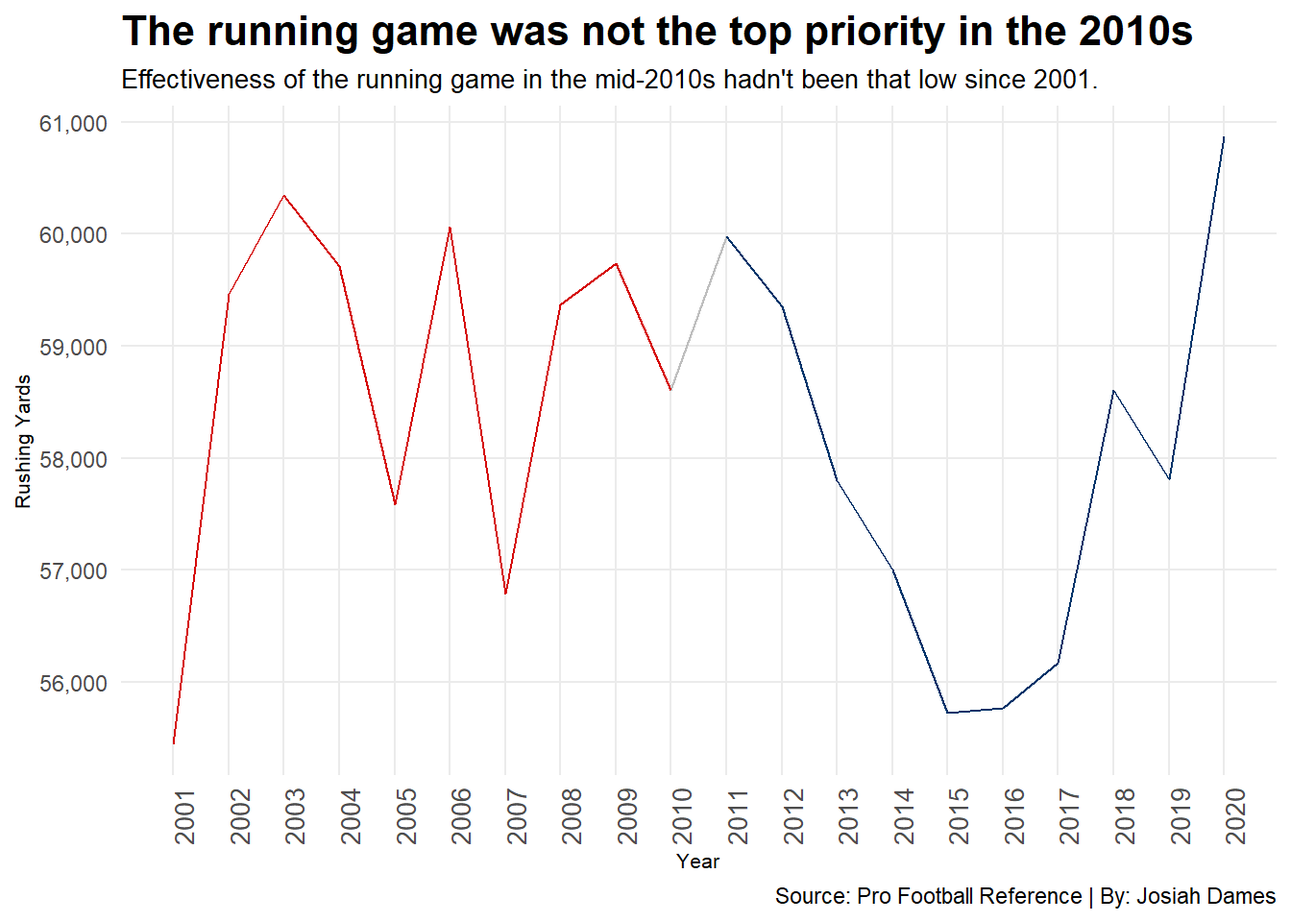
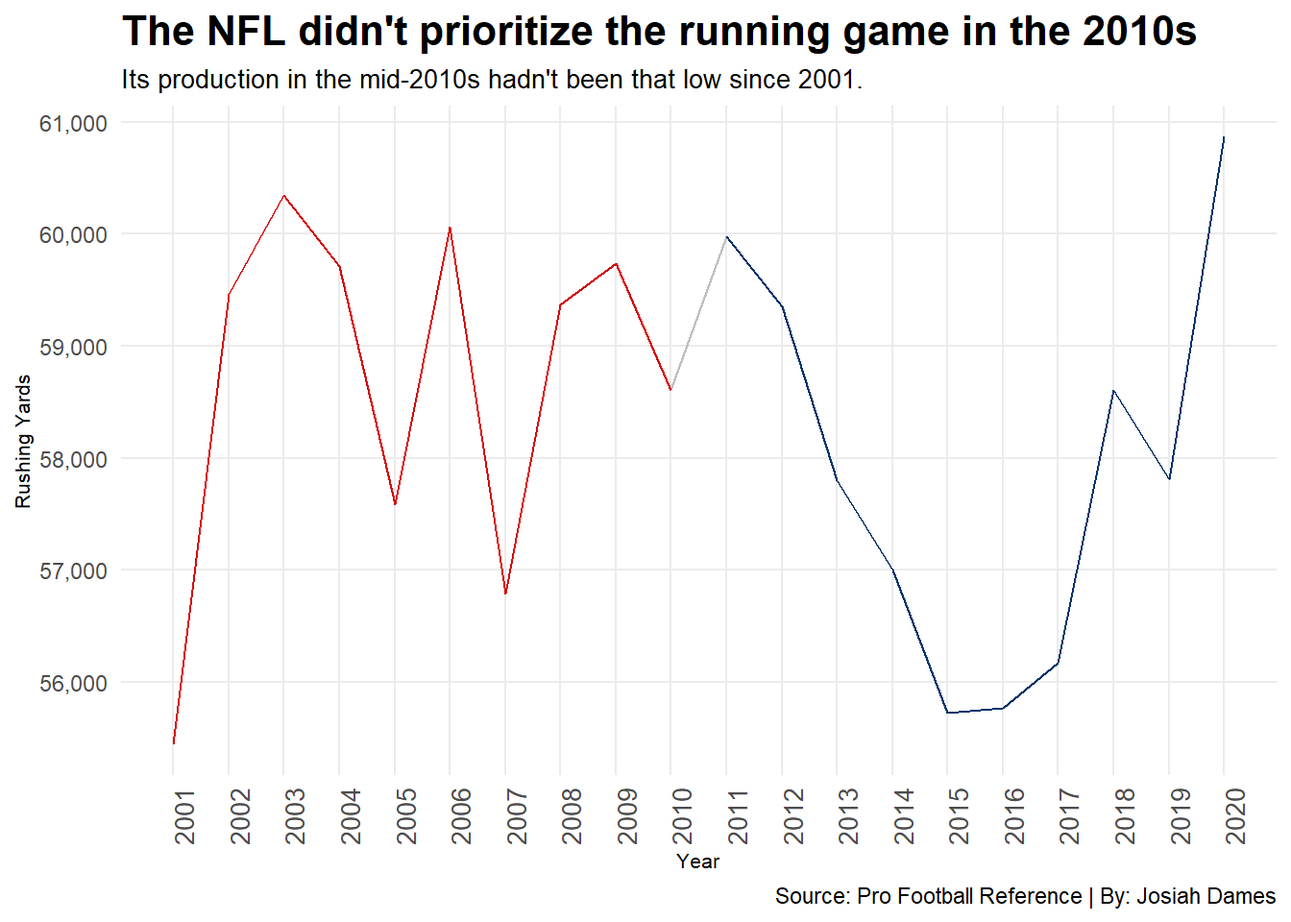
Initial Commit

Changed region(s): [[0.0938, 0.0, 0.9375, 0.0938]]

diff --git a/posts/nfl-passing-or-rushing-league/index.html b/posts/nfl-passing-or-rushing-league/index.html
@@ -191,7 +191,7 @@ pre > code.sourceCode > span > a:first-child::before { text-decoration: underlin
 <p>When you think of the modern NFL, what players do you think of? Most of the time, people think of elite quarterbacks, wide receivers or running backs- names like Patrick Mahomes, Justin Jefferson and Derrick Henry.</p>
 <p>However, there was a controversy brewing recently in the NFL: running backs’ earnings weren’t keeping up with their teammates. Players like Johnathan Taylor and Josh Jacobs had contract issues throughout 2023. Even kickers were out earning running backs.</p>
 <p>This begs the question: Is the position of running back dying because the NFL is too focused on the passing game? Let’s look at the last two decades, 2001-2010 and 2011-2020. With the exception of the 2001 season, each season had 32 teams playing in a 16-game regular season.</p>
-<p>The <a href="https://www.pro-football-reference.com/years/NFL/rushing.htm">Pro Football Reference</a> statistics show the NFL’s history of offense, both on the ground and in the air.</p>
+<p>The <a href="https://www.pro-football-reference.com/years/NFL/rushing.htm">Pro Football Reference’s</a> “Rushing &amp; Receiving League Totals” statistics show the NFL’s history of offense, both on the ground and in the air.</p>
 <p>First, we will answer the question: Is the passing game giving the running game a chance to flourish in the NFL?</p>
 <p>We will divide each year’s receiving yards by rushing yards to create a factor called “Net Yards.” This indicates that for every one rushing yard, there is a specific number of receiving yards. The bigger the “Net Yards,” the bigger the difference between receiving and rushing yards.</p>
 <div class="cell">
@@ -208,7 +208,7 @@ pre > code.sourceCode > span > a:first-child::before { text-decoration: underlin
 <div class="cell">
 <details class="code-fold">
 <summary>Code</summary>
-<div class="sourceCode cell-code" id="cb2"><pre class="sourceCode r code-with-copy"><code class="sourceCode r"><span id="cb2-1"><a href="#cb2-1" aria-hidden="true" tabindex="-1"></a>nfl <span class="ot">&lt;-</span> passing_rushing_totals_sports_reference <span class="sc">|&gt;</span> </span>
+<div class="sourceCode cell-code" id="cb2"><pre class="sourceCode r code-with-copy"><code class="sourceCode r"><span id="cb2-1"><a href="#cb2-1" aria-hidden="true" tabindex="-1"></a>nflyards <span class="ot">&lt;-</span> passing_rushing_totals_sports_reference <span class="sc">|&gt;</span> </span>
 <span id="cb2-2"><a href="#cb2-2" aria-hidden="true" tabindex="-1"></a>  <span class="fu">filter</span>(Year <span class="sc">&gt;=</span> <span class="dv">2001</span> <span class="sc">&amp;</span> Year <span class="sc">&lt;=</span><span class="dv">2020</span>) <span class="sc">|&gt;</span></span>
 <span id="cb2-3"><a href="#cb2-3" aria-hidden="true" tabindex="-1"></a>  <span class="fu">mutate</span>(</span>
 <span id="cb2-4"><a href="#cb2-4" aria-hidden="true" tabindex="-1"></a>    <span class="at">NetYards =</span> ReceivingYards<span class="sc">/</span>RushingYards</span>
@@ -216,12 +216,12 @@ pre > code.sourceCode > span > a:first-child::before { text-decoration: underlin
 <span id="cb2-6"><a href="#cb2-6" aria-hidden="true" tabindex="-1"></a></span>
 <span id="cb2-7"><a href="#cb2-7" aria-hidden="true" tabindex="-1"></a><span class="fu">ggplot</span>() <span class="sc">+</span> </span>
 <span id="cb2-8"><a href="#cb2-8" aria-hidden="true" tabindex="-1"></a>  <span class="fu">geom_point</span>(</span>
-<span id="cb2-9"><a href="#cb2-9" aria-hidden="true" tabindex="-1"></a>    <span class="at">data=</span>nfl, </span>
+<span id="cb2-9"><a href="#cb2-9" aria-hidden="true" tabindex="-1"></a>    <span class="at">data=</span>nflyards, </span>
 <span id="cb2-10"><a href="#cb2-10" aria-hidden="true" tabindex="-1"></a>    <span class="fu">aes</span>(<span class="at">x=</span>RushingYards, <span class="at">y=</span>ReceivingYards, <span class="at">size=</span>NetYards),</span>
 <span id="cb2-11"><a href="#cb2-11" aria-hidden="true" tabindex="-1"></a>    <span class="at">alpha =</span> <span class="fl">0.3</span>) <span class="sc">+</span></span>
 <span id="cb2-12"><a href="#cb2-12" aria-hidden="true" tabindex="-1"></a>  <span class="fu">scale_size</span>(<span class="at">range =</span> <span class="fu">c</span>(<span class="dv">2</span>,<span class="dv">8</span>), <span class="at">name =</span> <span class="st">"Net Yards"</span>) <span class="sc">+</span></span>
 <span id="cb2-13"><a href="#cb2-13" aria-hidden="true" tabindex="-1"></a><span class="fu">geom_point</span>(</span>
-<span id="cb2-14"><a href="#cb2-14" aria-hidden="true" tabindex="-1"></a>    <span class="at">data =</span> nfl, </span>
+<span id="cb2-14"><a href="#cb2-14" aria-hidden="true" tabindex="-1"></a>    <span class="at">data =</span> nflyards, </span>
 <span id="cb2-15"><a href="#cb2-15" aria-hidden="true" tabindex="-1"></a>    <span class="fu">aes</span>(</span>
 <span id="cb2-16"><a href="#cb2-16" aria-hidden="true" tabindex="-1"></a>      <span class="at">x =</span> RushingYards, </span>
 <span id="cb2-17"><a href="#cb2-17" aria-hidden="true" tabindex="-1"></a>      <span class="at">y =</span> ReceivingYards, </span>
@@ -229,7 +229,7 @@ pre > code.sourceCode > span > a:first-child::before { text-decoration: underlin
 <span id="cb2-19"><a href="#cb2-19" aria-hidden="true" tabindex="-1"></a>    <span class="at">alpha =</span> .<span class="dv">3</span>,</span>
 <span id="cb2-20"><a href="#cb2-20" aria-hidden="true" tabindex="-1"></a>    <span class="at">color =</span> <span class="st">"black"</span>) <span class="sc">+</span></span>
 <span id="cb2-21"><a href="#cb2-21" aria-hidden="true" tabindex="-1"></a><span class="fu">geom_text_repel</span>(</span>
-<span id="cb2-22"><a href="#cb2-22" aria-hidden="true" tabindex="-1"></a>    <span class="at">data=</span>nfl, </span>
+<span id="cb2-22"><a href="#cb2-22" aria-hidden="true" tabindex="-1"></a>    <span class="at">data=</span>nflyards, </span>
 <span id="cb2-23"><a href="#cb2-23" aria-hidden="true" tabindex="-1"></a>    <span class="fu">aes</span>(<span class="at">x=</span>RushingYards, <span class="at">y=</span>ReceivingYards, <span class="at">label=</span>Year)) <span class="sc">+</span></span>
 <span id="cb2-24"><a href="#cb2-24" aria-hidden="true" tabindex="-1"></a><span class="fu">geom_vline</span>(<span class="at">xintercept =</span> <span class="fl">58189.71</span>) <span class="sc">+</span></span>
 <span id="cb2-25"><a href="#cb2-25" aria-hidden="true" tabindex="-1"></a><span class="fu">geom_hline</span>(<span class="at">yintercept =</span> <span class="fl">121042.3</span>) <span class="sc">+</span></span>
@@ -244,33 +244,35 @@ pre > code.sourceCode > span > a:first-child::before { text-decoration: underlin
 <span id="cb2-34"><a href="#cb2-34" aria-hidden="true" tabindex="-1"></a>    <span class="fu">aes</span>(<span class="at">x =</span> <span class="dv">60250</span>, <span class="at">y =</span> <span class="dv">122000</span>),</span>
 <span id="cb2-35"><a href="#cb2-35" aria-hidden="true" tabindex="-1"></a>    <span class="at">label =</span> <span class="st">"A Season's Rushing Yards"</span>,</span>
 <span id="cb2-36"><a href="#cb2-36" aria-hidden="true" tabindex="-1"></a>    <span class="at">size =</span> <span class="dv">3</span>,</span>
-<span id="cb2-37"><a href="#cb2-37" aria-hidden="true" tabindex="-1"></a>    <span class="at">color =</span> <span class="st">"dark grey"</span></span>
+<span id="cb2-37"><a href="#cb2-37" aria-hidden="true" tabindex="-1"></a>    <span class="at">color =</span> <span class="st">"#d50a0a"</span></span>
 <span id="cb2-38"><a href="#cb2-38" aria-hidden="true" tabindex="-1"></a>  ) <span class="sc">+</span></span>
 <span id="cb2-39"><a href="#cb2-39" aria-hidden="true" tabindex="-1"></a>  <span class="fu">geom_text</span>(</span>
 <span id="cb2-40"><a href="#cb2-40" aria-hidden="true" tabindex="-1"></a>    <span class="fu">aes</span>(<span class="at">x =</span> <span class="dv">58195</span>, <span class="at">y =</span> <span class="dv">140000</span>),</span>
 <span id="cb2-41"><a href="#cb2-41" aria-hidden="true" tabindex="-1"></a>    <span class="at">label =</span> <span class="st">"A Season's Passing Yards"</span>,</span>
 <span id="cb2-42"><a href="#cb2-42" aria-hidden="true" tabindex="-1"></a>    <span class="at">size =</span> <span class="dv">3</span>,</span>
-<span id="cb2-43"><a href="#cb2-43" aria-hidden="true" tabindex="-1"></a>    <span class="at">color =</span> <span class="st">"dark grey"</span></span>
+<span id="cb2-43"><a href="#cb2-43" aria-hidden="true" tabindex="-1"></a>    <span class="at">color =</span> <span class="st">"#d50a0a"</span></span>
 <span id="cb2-44"><a href="#cb2-44" aria-hidden="true" tabindex="-1"></a>  ) <span class="sc">+</span></span>
 <span id="cb2-45"><a href="#cb2-45" aria-hidden="true" tabindex="-1"></a>  <span class="fu">geom_text</span>(</span>
 <span id="cb2-46"><a href="#cb2-46" aria-hidden="true" tabindex="-1"></a>    <span class="fu">aes</span>(<span class="at">x =</span> <span class="dv">57000</span>, <span class="at">y =</span> <span class="dv">135000</span>),</span>
 <span id="cb2-47"><a href="#cb2-47" aria-hidden="true" tabindex="-1"></a>    <span class="at">label =</span> <span class="st">"Huge emphasis on passing offense"</span>,</span>
-<span id="cb2-48"><a href="#cb2-48" aria-hidden="true" tabindex="-1"></a>    <span class="at">size =</span> <span class="dv">3</span></span>
-<span id="cb2-49"><a href="#cb2-49" aria-hidden="true" tabindex="-1"></a>  ) <span class="sc">+</span></span>
-<span id="cb2-50"><a href="#cb2-50" aria-hidden="true" tabindex="-1"></a>  <span class="fu">geom_text</span>(</span>
-<span id="cb2-51"><a href="#cb2-51" aria-hidden="true" tabindex="-1"></a>    <span class="fu">aes</span>(<span class="at">x =</span> <span class="dv">59500</span>, <span class="at">y =</span> <span class="dv">103000</span>),</span>
-<span id="cb2-52"><a href="#cb2-52" aria-hidden="true" tabindex="-1"></a>    <span class="at">label =</span> <span class="st">"Huge emphasis on rushing offense"</span>,</span>
-<span id="cb2-53"><a href="#cb2-53" aria-hidden="true" tabindex="-1"></a>    <span class="at">size =</span> <span class="dv">3</span></span>
-<span id="cb2-54"><a href="#cb2-54" aria-hidden="true" tabindex="-1"></a>  ) <span class="sc">+</span></span>
-<span id="cb2-55"><a href="#cb2-55" aria-hidden="true" tabindex="-1"></a>  <span class="fu">scale_x_continuous</span>(<span class="at">labels =</span> scales<span class="sc">::</span>comma) <span class="sc">+</span></span>
-<span id="cb2-56"><a href="#cb2-56" aria-hidden="true" tabindex="-1"></a>  <span class="fu">scale_y_continuous</span>(<span class="at">labels =</span> scales<span class="sc">::</span>comma) <span class="sc">+</span></span>
-<span id="cb2-57"><a href="#cb2-57" aria-hidden="true" tabindex="-1"></a>  <span class="fu">theme_minimal</span>() <span class="sc">+</span></span>
-<span id="cb2-58"><a href="#cb2-58" aria-hidden="true" tabindex="-1"></a>  <span class="fu">theme</span>(</span>
-<span id="cb2-59"><a href="#cb2-59" aria-hidden="true" tabindex="-1"></a>    <span class="at">plot.title =</span> <span class="fu">element_text</span>(<span class="at">size =</span> <span class="dv">16</span>, <span class="at">face =</span> <span class="st">"bold"</span>),</span>
-<span id="cb2-60"><a href="#cb2-60" aria-hidden="true" tabindex="-1"></a>    <span class="at">plot.subtitle =</span> <span class="fu">element_text</span>(<span class="at">size =</span> <span class="dv">10</span>),</span>
-<span id="cb2-61"><a href="#cb2-61" aria-hidden="true" tabindex="-1"></a>    <span class="at">axis.title =</span> <span class="fu">element_text</span>(<span class="at">size =</span> <span class="dv">8</span>),</span>
-<span id="cb2-62"><a href="#cb2-62" aria-hidden="true" tabindex="-1"></a>    <span class="at">panel.grid.minor =</span> <span class="fu">element_blank</span>()</span>
-<span id="cb2-63"><a href="#cb2-63" aria-hidden="true" tabindex="-1"></a>  )</span></code><button title="Copy to Clipboard" class="code-copy-button"><i class="bi"></i></button></pre></div>
+<span id="cb2-48"><a href="#cb2-48" aria-hidden="true" tabindex="-1"></a>    <span class="at">size =</span> <span class="dv">3</span>,</span>
+<span id="cb2-49"><a href="#cb2-49" aria-hidden="true" tabindex="-1"></a>    <span class="at">color =</span> <span class="st">"#013369"</span>,</span>
+<span id="cb2-50"><a href="#cb2-50" aria-hidden="true" tabindex="-1"></a>  ) <span class="sc">+</span></span>
+<span id="cb2-51"><a href="#cb2-51" aria-hidden="true" tabindex="-1"></a>  <span class="fu">geom_text</span>(</span>
+<span id="cb2-52"><a href="#cb2-52" aria-hidden="true" tabindex="-1"></a>    <span class="fu">aes</span>(<span class="at">x =</span> <span class="dv">59500</span>, <span class="at">y =</span> <span class="dv">103000</span>),</span>
+<span id="cb2-53"><a href="#cb2-53" aria-hidden="true" tabindex="-1"></a>    <span class="at">label =</span> <span class="st">"Huge emphasis on rushing offense"</span>,</span>
+<span id="cb2-54"><a href="#cb2-54" aria-hidden="true" tabindex="-1"></a>    <span class="at">size =</span> <span class="dv">3</span>, </span>
+<span id="cb2-55"><a href="#cb2-55" aria-hidden="true" tabindex="-1"></a>    <span class="at">color =</span> <span class="st">"#013369"</span></span>
+<span id="cb2-56"><a href="#cb2-56" aria-hidden="true" tabindex="-1"></a>  ) <span class="sc">+</span></span>
+<span id="cb2-57"><a href="#cb2-57" aria-hidden="true" tabindex="-1"></a>  <span class="fu">scale_x_continuous</span>(<span class="at">labels =</span> scales<span class="sc">::</span>comma) <span class="sc">+</span></span>
+<span id="cb2-58"><a href="#cb2-58" aria-hidden="true" tabindex="-1"></a>  <span class="fu">scale_y_continuous</span>(<span class="at">labels =</span> scales<span class="sc">::</span>comma) <span class="sc">+</span></span>
+<span id="cb2-59"><a href="#cb2-59" aria-hidden="true" tabindex="-1"></a>  <span class="fu">theme_minimal</span>() <span class="sc">+</span></span>
+<span id="cb2-60"><a href="#cb2-60" aria-hidden="true" tabindex="-1"></a>  <span class="fu">theme</span>(</span>
+<span id="cb2-61"><a href="#cb2-61" aria-hidden="true" tabindex="-1"></a>    <span class="at">plot.title =</span> <span class="fu">element_text</span>(<span class="at">size =</span> <span class="dv">16</span>, <span class="at">face =</span> <span class="st">"bold"</span>),</span>
+<span id="cb2-62"><a href="#cb2-62" aria-hidden="true" tabindex="-1"></a>    <span class="at">plot.subtitle =</span> <span class="fu">element_text</span>(<span class="at">size =</span> <span class="dv">10</span>),</span>
+<span id="cb2-63"><a href="#cb2-63" aria-hidden="true" tabindex="-1"></a>    <span class="at">axis.title =</span> <span class="fu">element_text</span>(<span class="at">size =</span> <span class="dv">8</span>),</span>
+<span id="cb2-64"><a href="#cb2-64" aria-hidden="true" tabindex="-1"></a>    <span class="at">panel.grid.minor =</span> <span class="fu">element_blank</span>()</span>
+<span id="cb2-65"><a href="#cb2-65" aria-hidden="true" tabindex="-1"></a>  )</span></code><button title="Copy to Clipboard" class="code-copy-button"><i class="bi"></i></button></pre></div>
 </details>
 <div class="cell-output-display">
 <div>
@@ -283,7 +285,7 @@ pre > code.sourceCode > span > a:first-child::before { text-decoration: underlin
 <div class="cell">
 <details class="code-fold">
 <summary>Code</summary>
-<div class="sourceCode cell-code" id="cb3"><pre class="sourceCode r code-with-copy"><code class="sourceCode r"><span id="cb3-1"><a href="#cb3-1" aria-hidden="true" tabindex="-1"></a>nfl <span class="sc">|&gt;</span></span>
+<div class="sourceCode cell-code" id="cb3"><pre class="sourceCode r code-with-copy"><code class="sourceCode r"><span id="cb3-1"><a href="#cb3-1" aria-hidden="true" tabindex="-1"></a>nflyards <span class="sc">|&gt;</span></span>
 <span id="cb3-2"><a href="#cb3-2" aria-hidden="true" tabindex="-1"></a>  <span class="fu">summarise</span>(</span>
 <span id="cb3-3"><a href="#cb3-3" aria-hidden="true" tabindex="-1"></a>    <span class="at">RushMean =</span> <span class="fu">mean</span>(RushingYards),</span>
 <span id="cb3-4"><a href="#cb3-4" aria-hidden="true" tabindex="-1"></a>    <span class="at">ReceiveingMean =</span> <span class="fu">mean</span>(ReceivingYards)</span>
@@ -291,28 +293,28 @@ pre > code.sourceCode > span > a:first-child::before { text-decoration: underlin
 </details>
 </div>
 <p>As we look at the two decades of football, the 2000s show that the running game was emphasized a lot more and there isn’t much difference between the yards in the air or on the ground. In the 2010s, however, the rushing yards were inconsistent.</p>
-<p>According to <a href="https://www.foxsports.com/stories/nfl/the-nfls-offense-of-the-decade/">Fox Sports</a>, the 2010s offense was solely passing. This can be proven by many teams’ offensive statistics. The top six offenses of the last decade were the 2011 New Orleans Saints, 2011 Green Bay Packers, 2013 Denver Broncos, 2016 Atlanta Falcons, 2018 Kansas City Chiefs, and 2019 Baltimore Ravens. By itself, the Falcons’ Super Bowl LI run in 2016 had quarterback Matt Ryan throwing for almost 5,000 yards and 38 touchdowns in the regular season. That Falcons’ offense had the highest grade offense in the 2010s at 94.1. That is very impressive.</p>
+<p>According to <a href="https://www.foxsports.com/stories/nfl/the-nfls-offense-of-the-decade/">Fox Sports</a>, the 2010s offense prioritized passing. This can be proven by many teams’ offensive statistics. The top six offenses of the last decade were the 2011 New Orleans Saints, 2011 Green Bay Packers, 2013 Denver Broncos, 2016 Atlanta Falcons, 2018 Kansas City Chiefs, and 2019 Baltimore Ravens. By itself, the Falcons’ Super Bowl LI run in 2016 had quarterback Matt Ryan throwing for almost 5,000 yards and 38 touchdowns in the regular season. That Falcons’ offense had the highest grade offense in the 2010s at 94.1. That is very impressive.</p>
 <p>This leads to the next question: how much did the rushing and passing game change by year? In order to see the dip in rushing and rise in passing offense, we need to see each year side by side.</p>
 <p>The 2000s will be colored Rosso Corsa and the 2010s will be colored Dark Midnight Blue.</p>
 <div class="cell">
 <details class="code-fold">
 <summary>Code</summary>
-<div class="sourceCode cell-code" id="cb4"><pre class="sourceCode r code-with-copy"><code class="sourceCode r"><span id="cb4-1"><a href="#cb4-1" aria-hidden="true" tabindex="-1"></a>decadeone <span class="ot">&lt;-</span> nfl <span class="sc">|&gt;</span></span>
+<div class="sourceCode cell-code" id="cb4"><pre class="sourceCode r code-with-copy"><code class="sourceCode r"><span id="cb4-1"><a href="#cb4-1" aria-hidden="true" tabindex="-1"></a>decadeone <span class="ot">&lt;-</span> nflyards <span class="sc">|&gt;</span></span>
 <span id="cb4-2"><a href="#cb4-2" aria-hidden="true" tabindex="-1"></a>  <span class="fu">filter</span>(Year <span class="sc">&gt;=</span> <span class="dv">2001</span> <span class="sc">&amp;</span> Year <span class="sc">&lt;=</span> <span class="dv">2010</span>)</span>
 <span id="cb4-3"><a href="#cb4-3" aria-hidden="true" tabindex="-1"></a></span>
-<span id="cb4-4"><a href="#cb4-4" aria-hidden="true" tabindex="-1"></a>decadetwo <span class="ot">&lt;-</span> nfl <span class="sc">|&gt;</span></span>
+<span id="cb4-4"><a href="#cb4-4" aria-hidden="true" tabindex="-1"></a>decadetwo <span class="ot">&lt;-</span> nflyards <span class="sc">|&gt;</span></span>
 <span id="cb4-5"><a href="#cb4-5" aria-hidden="true" tabindex="-1"></a>  <span class="fu">filter</span>(Year <span class="sc">&gt;=</span> <span class="dv">2011</span> <span class="sc">&amp;</span> Year <span class="sc">&lt;=</span> <span class="dv">2020</span>)</span>
 <span id="cb4-6"><a href="#cb4-6" aria-hidden="true" tabindex="-1"></a></span>
 <span id="cb4-7"><a href="#cb4-7" aria-hidden="true" tabindex="-1"></a><span class="fu">ggplot</span>() <span class="sc">+</span> </span>
-<span id="cb4-8"><a href="#cb4-8" aria-hidden="true" tabindex="-1"></a>  <span class="fu">geom_line</span>(<span class="at">data=</span>nfl, <span class="fu">aes</span>(<span class="at">x=</span>Year, <span class="at">y=</span>ReceivingYards), <span class="at">color=</span><span class="st">"grey"</span>) <span class="sc">+</span></span>
+<span id="cb4-8"><a href="#cb4-8" aria-hidden="true" tabindex="-1"></a>  <span class="fu">geom_line</span>(<span class="at">data=</span>nflyards, <span class="fu">aes</span>(<span class="at">x=</span>Year, <span class="at">y=</span>ReceivingYards), <span class="at">color=</span><span class="st">"grey"</span>) <span class="sc">+</span></span>
 <span id="cb4-9"><a href="#cb4-9" aria-hidden="true" tabindex="-1"></a>  <span class="fu">geom_line</span>(<span class="at">data=</span>decadeone, <span class="fu">aes</span>(<span class="at">x=</span>Year, <span class="at">y=</span>ReceivingYards), <span class="at">color=</span><span class="st">"#d50a0a"</span>) <span class="sc">+</span></span>
 <span id="cb4-10"><a href="#cb4-10" aria-hidden="true" tabindex="-1"></a>  <span class="fu">geom_line</span>(<span class="at">data=</span>decadetwo, <span class="fu">aes</span>(<span class="at">x=</span>Year, <span class="at">y=</span>ReceivingYards), <span class="at">color=</span><span class="st">"#013369"</span>) <span class="sc">+</span></span>
 <span id="cb4-11"><a href="#cb4-11" aria-hidden="true" tabindex="-1"></a>  <span class="fu">labs</span>(</span>
 <span id="cb4-12"><a href="#cb4-12" aria-hidden="true" tabindex="-1"></a>    <span class="at">y =</span> <span class="st">"Receiving Yards"</span>,</span>
 <span id="cb4-13"><a href="#cb4-13" aria-hidden="true" tabindex="-1"></a>    <span class="at">x =</span> <span class="st">"Year"</span>,</span>
 <span id="cb4-14"><a href="#cb4-14" aria-hidden="true" tabindex="-1"></a>    <span class="at">fill =</span> <span class="st">"Receiving Yards"</span>,</span>
-<span id="cb4-15"><a href="#cb4-15" aria-hidden="true" tabindex="-1"></a>    <span class="at">title =</span> <span class="st">"The passing game consistently grew in the last </span><span class="sc">\n</span><span class="st">two decades"</span>,</span>
-<span id="cb4-16"><a href="#cb4-16" aria-hidden="true" tabindex="-1"></a>    <span class="at">subtitle =</span> <span class="st">"The passing game's effectiveness dropped in 2017 but improved over the next few years."</span>,</span>
+<span id="cb4-15"><a href="#cb4-15" aria-hidden="true" tabindex="-1"></a>    <span class="at">title =</span> <span class="st">"The passing game consistently grew in the last</span><span class="sc">\n</span><span class="st">two decades"</span>,</span>
+<span id="cb4-16"><a href="#cb4-16" aria-hidden="true" tabindex="-1"></a>    <span class="at">subtitle =</span> <span class="st">"Its efficiency dropped in 2017 but improved over the next few years."</span>,</span>
 <span id="cb4-17"><a href="#cb4-17" aria-hidden="true" tabindex="-1"></a>    <span class="at">caption =</span> <span class="st">"Source: Pro Football Reference | By: Josiah Dames"</span></span>
 <span id="cb4-18"><a href="#cb4-18" aria-hidden="true" tabindex="-1"></a>  ) <span class="sc">+</span></span>
 <span id="cb4-19"><a href="#cb4-19" aria-hidden="true" tabindex="-1"></a>  <span class="fu">scale_y_continuous</span>(<span class="at">labels =</span> scales<span class="sc">::</span>comma) <span class="sc">+</span></span>
@@ -340,15 +342,15 @@ pre > code.sourceCode > span > a:first-child::before { text-decoration: underlin
 <details class="code-fold">
 <summary>Code</summary>
 <div class="sourceCode cell-code" id="cb5"><pre class="sourceCode r code-with-copy"><code class="sourceCode r"><span id="cb5-1"><a href="#cb5-1" aria-hidden="true" tabindex="-1"></a><span class="fu">ggplot</span>() <span class="sc">+</span> </span>
-<span id="cb5-2"><a href="#cb5-2" aria-hidden="true" tabindex="-1"></a>  <span class="fu">geom_line</span>(<span class="at">data=</span>nfl, <span class="fu">aes</span>(<span class="at">x=</span>Year, <span class="at">y=</span>RushingYards), <span class="at">color=</span><span class="st">"grey"</span>) <span class="sc">+</span></span>
+<span id="cb5-2"><a href="#cb5-2" aria-hidden="true" tabindex="-1"></a>  <span class="fu">geom_line</span>(<span class="at">data=</span>nflyards, <span class="fu">aes</span>(<span class="at">x=</span>Year, <span class="at">y=</span>RushingYards), <span class="at">color=</span><span class="st">"grey"</span>) <span class="sc">+</span></span>
 <span id="cb5-3"><a href="#cb5-3" aria-hidden="true" tabindex="-1"></a>  <span class="fu">geom_line</span>(<span class="at">data=</span>decadeone, <span class="fu">aes</span>(<span class="at">x=</span>Year, <span class="at">y=</span>RushingYards), <span class="at">color=</span><span class="st">"#d50a0a"</span>) <span class="sc">+</span></span>
 <span id="cb5-4"><a href="#cb5-4" aria-hidden="true" tabindex="-1"></a>  <span class="fu">geom_line</span>(<span class="at">data=</span>decadetwo, <span class="fu">aes</span>(<span class="at">x=</span>Year, <span class="at">y=</span>RushingYards), <span class="at">color=</span><span class="st">"#013369"</span>) <span class="sc">+</span></span>
 <span id="cb5-5"><a href="#cb5-5" aria-hidden="true" tabindex="-1"></a>  <span class="fu">labs</span>(</span>
 <span id="cb5-6"><a href="#cb5-6" aria-hidden="true" tabindex="-1"></a>    <span class="at">y =</span> <span class="st">"Rushing Yards"</span>,</span>
 <span id="cb5-7"><a href="#cb5-7" aria-hidden="true" tabindex="-1"></a>    <span class="at">x =</span> <span class="st">"Year"</span>,</span>
 <span id="cb5-8"><a href="#cb5-8" aria-hidden="true" tabindex="-1"></a>    <span class="at">fill =</span> <span class="st">"Rushing Yards"</span>,</span>
-<span id="cb5-9"><a href="#cb5-9" aria-hidden="true" tabindex="-1"></a>    <span class="at">title =</span> <span class="st">"The running game was not the top priority in the 2010s"</span>,</span>
-<span id="cb5-10"><a href="#cb5-10" aria-hidden="true" tabindex="-1"></a>    <span class="at">subtitle =</span> <span class="st">"Effectiveness of the running game in the mid-2010s hadn't been that low since 2001."</span>,</span>
+<span id="cb5-9"><a href="#cb5-9" aria-hidden="true" tabindex="-1"></a>    <span class="at">title =</span> <span class="st">"The NFL didn't prioritize the running game in the 2010s"</span>,</span>
+<span id="cb5-10"><a href="#cb5-10" aria-hidden="true" tabindex="-1"></a>    <span class="at">subtitle =</span> <span class="st">"Its production in the mid-2010s hadn't been that low since 2001."</span>,</span>
 <span id="cb5-11"><a href="#cb5-11" aria-hidden="true" tabindex="-1"></a>    <span class="at">caption =</span> <span class="st">"Source: Pro Football Reference | By: Josiah Dames"</span></span>
 <span id="cb5-12"><a href="#cb5-12" aria-hidden="true" tabindex="-1"></a>  ) <span class="sc">+</span></span>
 <span id="cb5-13"><a href="#cb5-13" aria-hidden="true" tabindex="-1"></a>  <span class="fu">scale_y_continuous</span>(<span class="at">labels =</span> scales<span class="sc">::</span>comma) <span class="sc">+</span></span>
@@ -377,7 +379,7 @@ pre > code.sourceCode > span > a:first-child::before { text-decoration: underlin
 <div class="cell">
 <details class="code-fold">
 <summary>Code</summary>
-<div class="sourceCode cell-code" id="cb6"><pre class="sourceCode r code-with-copy"><code class="sourceCode r"><span id="cb6-1"><a href="#cb6-1" aria-hidden="true" tabindex="-1"></a>big <span class="ot">&lt;-</span> passing_rushing_totals_sports_reference <span class="sc">|&gt;</span> </span>
+<div class="sourceCode cell-code" id="cb6"><pre class="sourceCode r code-with-copy"><code class="sourceCode r"><span id="cb6-1"><a href="#cb6-1" aria-hidden="true" tabindex="-1"></a>seasontotals <span class="ot">&lt;-</span> passing_rushing_totals_sports_reference <span class="sc">|&gt;</span> </span>
 <span id="cb6-2"><a href="#cb6-2" aria-hidden="true" tabindex="-1"></a>  <span class="fu">group_by</span>(Year) <span class="sc">|&gt;</span> </span>
 <span id="cb6-3"><a href="#cb6-3" aria-hidden="true" tabindex="-1"></a>  <span class="fu">summarise</span>(</span>
 <span id="cb6-4"><a href="#cb6-4" aria-hidden="true" tabindex="-1"></a>    <span class="at">SeasonRushingYards =</span> <span class="fu">sum</span>(RushingYards),</span>
@@ -387,7 +389,7 @@ pre > code.sourceCode > span > a:first-child::before { text-decoration: underlin
 <span id="cb6-8"><a href="#cb6-8" aria-hidden="true" tabindex="-1"></a>  ) <span class="sc">|&gt;</span> </span>
 <span id="cb6-9"><a href="#cb6-9" aria-hidden="true" tabindex="-1"></a>  <span class="fu">filter</span>(Year <span class="sc">&gt;=</span> <span class="dv">2001</span> <span class="sc">&amp;</span> Year <span class="sc">&lt;=</span><span class="dv">2020</span>)</span>
 <span id="cb6-10"><a href="#cb6-10" aria-hidden="true" tabindex="-1"></a></span>
-<span id="cb6-11"><a href="#cb6-11" aria-hidden="true" tabindex="-1"></a>biglong <span class="ot">&lt;-</span> big <span class="sc">|&gt;</span> </span>
+<span id="cb6-11"><a href="#cb6-11" aria-hidden="true" tabindex="-1"></a>seasontotalslong <span class="ot">&lt;-</span> seasontotals <span class="sc">|&gt;</span> </span>
 <span id="cb6-12"><a href="#cb6-12" aria-hidden="true" tabindex="-1"></a>  <span class="fu">select</span>(<span class="sc">-</span>TotalOffensiveYards) <span class="sc">|&gt;</span></span>
 <span id="cb6-13"><a href="#cb6-13" aria-hidden="true" tabindex="-1"></a>  <span class="fu">pivot_longer</span>(</span>
 <span id="cb6-14"><a href="#cb6-14" aria-hidden="true" tabindex="-1"></a>    <span class="at">cols =</span> <span class="fu">ends_with</span>(<span class="st">"Yards"</span>),</span>
@@ -395,7 +397,7 @@ pre > code.sourceCode > span > a:first-child::before { text-decoration: underlin
 <span id="cb6-16"><a href="#cb6-16" aria-hidden="true" tabindex="-1"></a>  )</span>
 <span id="cb6-17"><a href="#cb6-17" aria-hidden="true" tabindex="-1"></a></span>
 <span id="cb6-18"><a href="#cb6-18" aria-hidden="true" tabindex="-1"></a><span class="fu">ggplot</span>() <span class="sc">+</span> </span>
-<span id="cb6-19"><a href="#cb6-19" aria-hidden="true" tabindex="-1"></a>  <span class="fu">geom_bar</span>(<span class="at">data=</span>biglong, <span class="fu">aes</span>(<span class="at">x=</span><span class="fu">reorder</span>(Year, value), <span class="at">weight=</span>value, <span class="at">fill=</span>metric), <span class="at">color =</span> <span class="st">"black"</span>) <span class="sc">+</span></span>
+<span id="cb6-19"><a href="#cb6-19" aria-hidden="true" tabindex="-1"></a>  <span class="fu">geom_bar</span>(<span class="at">data=</span>seasontotalslong, <span class="fu">aes</span>(<span class="at">x=</span><span class="fu">reorder</span>(Year, value), <span class="at">weight=</span>value, <span class="at">fill=</span>metric), <span class="at">color =</span> <span class="st">"black"</span>) <span class="sc">+</span></span>
 <span id="cb6-20"><a href="#cb6-20" aria-hidden="true" tabindex="-1"></a>  <span class="fu">scale_fill_manual</span>(<span class="at">values =</span> <span class="fu">c</span>(<span class="st">"#d50a0a"</span>, <span class="st">"#013369"</span>)) <span class="sc">+</span></span>
 <span id="cb6-21"><a href="#cb6-21" aria-hidden="true" tabindex="-1"></a>  <span class="fu">coord_flip</span>() <span class="sc">+</span></span>
 <span id="cb6-22"><a href="#cb6-22" aria-hidden="true" tabindex="-1"></a><span class="fu">labs</span>(</span>
@@ -423,11 +425,11 @@ pre > code.sourceCode > span > a:first-child::before { text-decoration: underlin
 </div>
 </div>
 </div>
-<p>Once again, the passing game dominates in the 2010s. But what about each years’ offensive efficiency? Surely the years with the most yards have the most yards per attempt rate on both sides of offense.</p>
+<p>Once again, the passing game dominates in the 2010s. According all of the previous graphs, 2020 has the most rushing yards and one of the top spots in receiving yards. But what about its offensive efficiency? Surely the year with the most yards has the most yards per attempt rate on both sides of offense.</p>
 <div class="cell">
 <details class="code-fold">
 <summary>Code</summary>
-<div class="sourceCode cell-code" id="cb7"><pre class="sourceCode r code-with-copy"><code class="sourceCode r"><span id="cb7-1"><a href="#cb7-1" aria-hidden="true" tabindex="-1"></a>big <span class="ot">&lt;-</span> passing_rushing_totals_sports_reference <span class="sc">|&gt;</span> </span>
+<div class="sourceCode cell-code" id="cb7"><pre class="sourceCode r code-with-copy"><code class="sourceCode r"><span id="cb7-1"><a href="#cb7-1" aria-hidden="true" tabindex="-1"></a>seasonattempts <span class="ot">&lt;-</span> passing_rushing_totals_sports_reference <span class="sc">|&gt;</span> </span>
 <span id="cb7-2"><a href="#cb7-2" aria-hidden="true" tabindex="-1"></a>  <span class="fu">group_by</span>(Year) <span class="sc">|&gt;</span> </span>
 <span id="cb7-3"><a href="#cb7-3" aria-hidden="true" tabindex="-1"></a>  <span class="fu">summarise</span>(</span>
 <span id="cb7-4"><a href="#cb7-4" aria-hidden="true" tabindex="-1"></a>    <span class="at">SeasonRushingYardsPerAttempt =</span> RushingYards<span class="sc">/</span>RushingAttempts,</span>
@@ -437,7 +439,7 @@ pre > code.sourceCode > span > a:first-child::before { text-decoration: underlin
 <span id="cb7-8"><a href="#cb7-8" aria-hidden="true" tabindex="-1"></a>  ) <span class="sc">|&gt;</span> </span>
 <span id="cb7-9"><a href="#cb7-9" aria-hidden="true" tabindex="-1"></a>  <span class="fu">filter</span>(Year <span class="sc">&gt;=</span> <span class="dv">2001</span> <span class="sc">&amp;</span> Year <span class="sc">&lt;=</span> <span class="dv">2020</span>)</span>
 <span id="cb7-10"><a href="#cb7-10" aria-hidden="true" tabindex="-1"></a></span>
-<span id="cb7-11"><a href="#cb7-11" aria-hidden="true" tabindex="-1"></a>biglong <span class="ot">&lt;-</span> big <span class="sc">|&gt;</span> </span>
+<span id="cb7-11"><a href="#cb7-11" aria-hidden="true" tabindex="-1"></a>seasonattemptslong <span class="ot">&lt;-</span> seasonattempts <span class="sc">|&gt;</span> </span>
 <span id="cb7-12"><a href="#cb7-12" aria-hidden="true" tabindex="-1"></a>  <span class="fu">select</span>(<span class="sc">-</span>TotalOffensiveYards) <span class="sc">|&gt;</span></span>
 <span id="cb7-13"><a href="#cb7-13" aria-hidden="true" tabindex="-1"></a>  <span class="fu">pivot_longer</span>(</span>
 <span id="cb7-14"><a href="#cb7-14" aria-hidden="true" tabindex="-1"></a>    <span class="at">cols =</span> <span class="fu">ends_with</span>(<span class="st">"Attempt"</span>),</span>
@@ -445,7 +447,7 @@ pre > code.sourceCode > span > a:first-child::before { text-decoration: underlin
 <span id="cb7-16"><a href="#cb7-16" aria-hidden="true" tabindex="-1"></a>  )</span>
 <span id="cb7-17"><a href="#cb7-17" aria-hidden="true" tabindex="-1"></a></span>
 <span id="cb7-18"><a href="#cb7-18" aria-hidden="true" tabindex="-1"></a><span class="fu">ggplot</span>() <span class="sc">+</span> </span>
-<span id="cb7-19"><a href="#cb7-19" aria-hidden="true" tabindex="-1"></a>  <span class="fu">geom_bar</span>(<span class="at">data=</span>biglong, <span class="fu">aes</span>(<span class="at">x=</span><span class="fu">reorder</span>(Year, value), <span class="at">weight=</span>value, <span class="at">fill=</span>metric), <span class="at">color =</span> <span class="st">"black"</span>) <span class="sc">+</span></span>
+<span id="cb7-19"><a href="#cb7-19" aria-hidden="true" tabindex="-1"></a>  <span class="fu">geom_bar</span>(<span class="at">data=</span>seasonattemptslong, <span class="fu">aes</span>(<span class="at">x=</span><span class="fu">reorder</span>(Year, value), <span class="at">weight=</span>value, <span class="at">fill=</span>metric), <span class="at">color =</span> <span class="st">"black"</span>) <span class="sc">+</span></span>
 <span id="cb7-20"><a href="#cb7-20" aria-hidden="true" tabindex="-1"></a>  <span class="fu">scale_fill_manual</span>(<span class="at">values =</span> <span class="fu">c</span>(<span class="st">"#d50a0a"</span>, <span class="st">"#013369"</span>)) <span class="sc">+</span></span>
 <span id="cb7-21"><a href="#cb7-21" aria-hidden="true" tabindex="-1"></a>  <span class="fu">coord_flip</span>()  <span class="sc">+</span></span>
 <span id="cb7-22"><a href="#cb7-22" aria-hidden="true" tabindex="-1"></a><span class="fu">labs</span>(</span>
@@ -453,7 +455,7 @@ pre > code.sourceCode > span > a:first-child::before { text-decoration: underlin
 <span id="cb7-24"><a href="#cb7-24" aria-hidden="true" tabindex="-1"></a>    <span class="at">x =</span> <span class="st">"Year"</span>,</span>
 <span id="cb7-25"><a href="#cb7-25" aria-hidden="true" tabindex="-1"></a>    <span class="at">fill =</span> <span class="st">"Yards Per Attempt"</span>,</span>
 <span id="cb7-26"><a href="#cb7-26" aria-hidden="true" tabindex="-1"></a>    <span class="at">title =</span> <span class="st">"2011 was the most efficient year for the passing game"</span>,</span>
-<span id="cb7-27"><a href="#cb7-27" aria-hidden="true" tabindex="-1"></a>    <span class="at">subtitle =</span> <span class="st">"While 2020 had the most passing yards, 2011 had the most yards per attempt."</span>,</span>
+<span id="cb7-27"><a href="#cb7-27" aria-hidden="true" tabindex="-1"></a>    <span class="at">subtitle =</span> <span class="st">"While 2020 had the most yards, 2011 had the most yards per attempt."</span>,</span>
 <span id="cb7-28"><a href="#cb7-28" aria-hidden="true" tabindex="-1"></a>    <span class="at">caption =</span> <span class="st">"Source: Pro Football Reference | By: Josiah Dames"</span></span>
 <span id="cb7-29"><a href="#cb7-29" aria-hidden="true" tabindex="-1"></a>  ) <span class="sc">+</span></span>
 <span id="cb7-30"><a href="#cb7-30" aria-hidden="true" tabindex="-1"></a>  <span class="fu">scale_y_continuous</span>(<span class="at">labels =</span> scales<span class="sc">::</span>comma, <span class="at">breaks=</span><span class="fu">c</span>(<span class="dv">1</span><span class="sc">:</span><span class="dv">15</span>)) <span class="sc">+</span></span>

diff --git a/index.html b/index.html
@@ -205,7 +205,7 @@ window.Quarto = {
 
 <div class="quarto-listing quarto-listing-container-default" id="listing-listing">
 <div class="list quarto-listing-default">
-<div class="quarto-post image-right" data-index="0" data-categories="NFL" data-listing-date-sort="1731823200000" data-listing-file-modified-sort="1731780489792" data-listing-date-modified-sort="NaN" data-listing-reading-time-sort="10" data-listing-word-count-sort="1857">
+<div class="quarto-post image-right" data-index="0" data-categories="NFL" data-listing-date-sort="1731823200000" data-listing-file-modified-sort="1731786050952" data-listing-date-modified-sort="NaN" data-listing-reading-time-sort="10" data-listing-word-count-sort="1884">
 <div class="thumbnail">
 <p><a href="./posts/nfl-passing-or-rushing-league/index.html" class="no-external"></a></p><a href="./posts/nfl-passing-or-rushing-league/index.html" class="no-external">
 <p><img loading="lazy" src="./posts/nfl-passing-or-rushing-league/image.jpg" class="thumbnail-image"></p>
